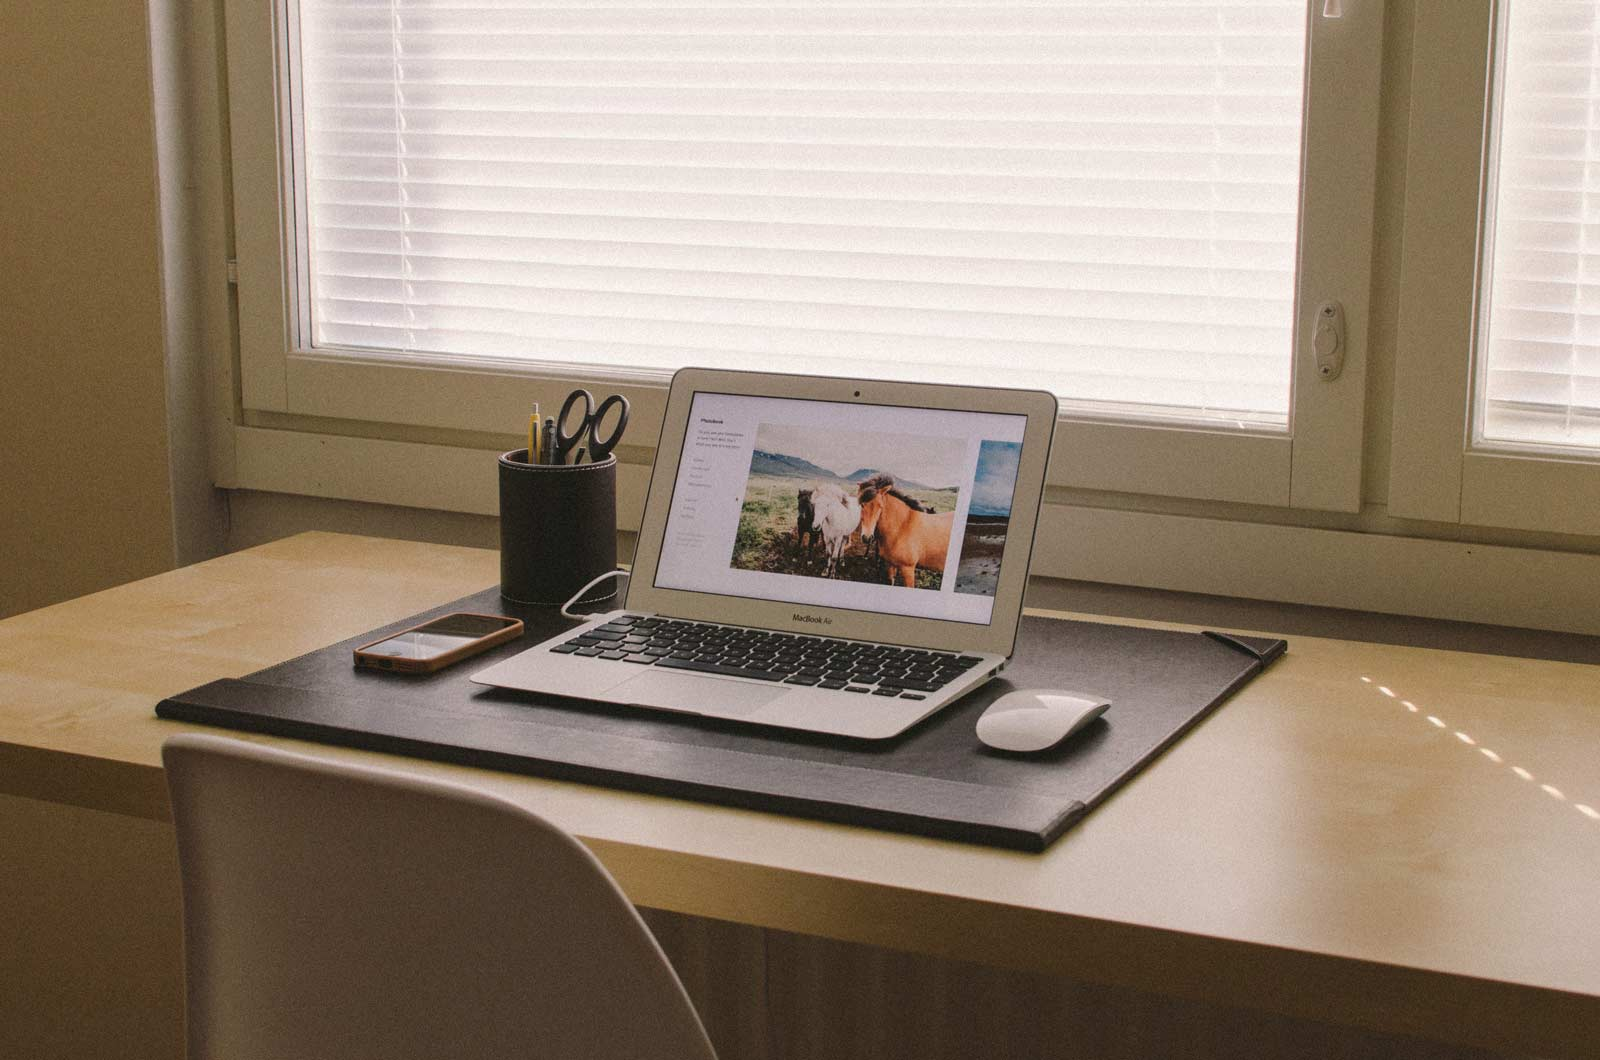
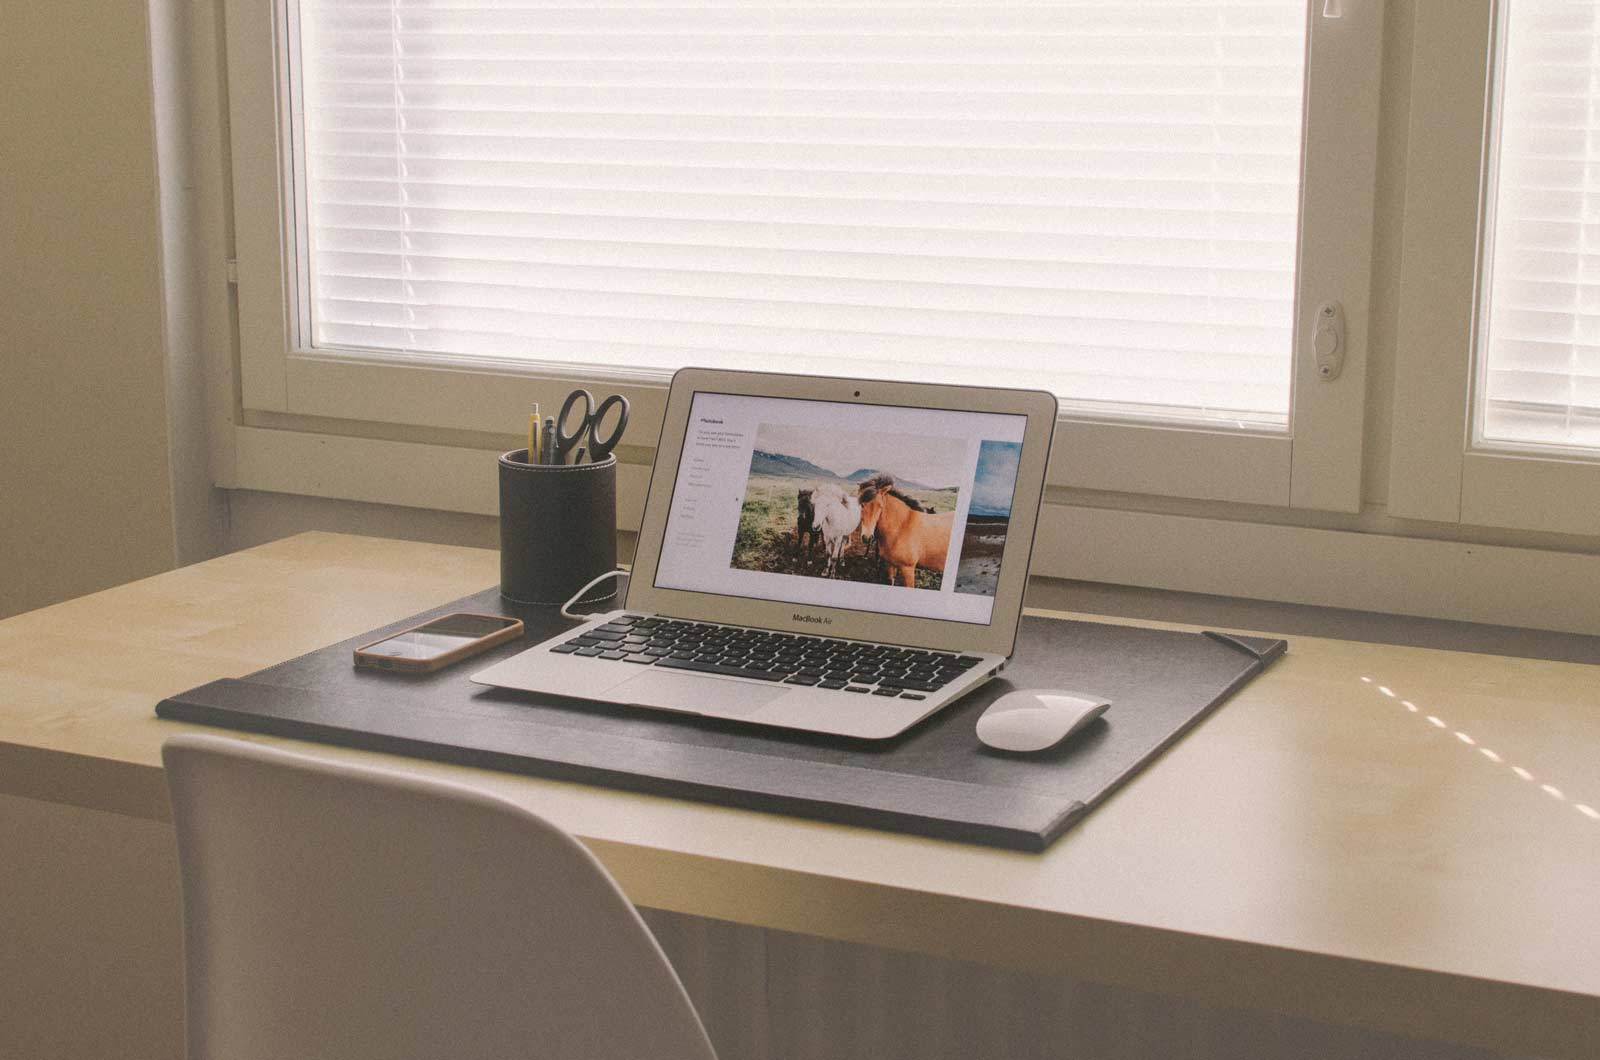
Top section updates.

diff --git a/index.html b/index.html
@@ -34,7 +34,37 @@
 
     <meta name="theme-color" content="#fefefe">
 
-    
+    <style>
+
+
+.section1 {
[1 lines of base64/hex data omitted]
+
[1 lines of base64/hex data omitted]
+min-height: 100vh;
+}
+
+.section1-enhanced {
+  background-image: url(img/bg-enhanced2.jpg);
+}
+
+@supports (background-image: filter(url('i.jpg'), blur(1px))) {
+  .post-header {
+    transform: translateZ(0);
+  }
+  .post-header-enhanced {
+    animation: sharpen .5s both;
+  }
+  @keyframes sharpen {
+    from {
+      background-image: filter(url(img/bg-enhanced2.jpg), blur(20px));
+    }
+    to {
+      background-image: filter(url(img/bg-enhanced2.jpg), blur(0px));
+    }
+  }
+}</style>
+
   </head>
   <body>
 
@@ -73,7 +103,7 @@
 
       <div class="section1 row">
       <div class="top-bar">
-          <img src="img/logo.png" style="max-height:2rem; max-width: 45%; width:auto;" alt="PSD 2 RWD beta logo">
+          <img src="img/logo.png" style="max-height:2rem; width:auto;" alt="PSD 2 RWD beta logo">
         <div class="top-bar-links" data-magellan>
           <a href="#pricing" class="pricing hide-for-small-only pricing-link">Pricing</a>
           <a href="#client-login" class="client-login">Client Login</a>

diff --git a/js/app.js b/js/app.js
@@ -1,1 +1,55 @@
 $(document).foundation();
+
+window.onload = function loadStuff() {
+  var win, doc, img, header, enhancedClass;
+  // Quit early if older browser (e.g. IE8).
+  if (!('addEventListener' in window)) {
+    return;
+  }
+
+  win = window;
+  doc = win.document;
+  img = new Image();
+  header = doc.querySelector('.section1');
+  enhancedClass = 'section1-enhanced';
+
+  // Rather convoluted, but parses out the first mention of a background
+  // image url for the enhanced header, even if the style is not applied.
+  var bigSrc = (function() {
+    // Find all of the CssRule objects inside the inline stylesheet 
+    var styles = doc.querySelector('style').sheet.cssRules;
+    // Fetch the background-image declaration...
+    var bgDecl = (function() {
+      // ...via a self-executing function, where a loop is run
+      var bgStyle, i, l = styles.length;
+      for (i = 0; i < l; i++) {
+        // ...checking if the rule is the one targeting the
+        // enhanced header.
+        if (styles[i].selectorText &&
+          styles[i].selectorText == '.' + enhancedClass) {
+          // If so, set bgDecl to the entire background-image
+          // value of that rule
+          bgStyle = styles[i].style.backgroundImage;
+          // ...and break the loop.
+          break;
+        }
+      }
+      // ...and return that text.
+      return bgStyle;
+    }());
+    // Finally, return a match for the URL inside the background-image
+    // by using a fancy regex i Googled up, if the bgDecl variable is
+    // assigned at all.         
+    return bgDecl && bgDecl.match(/(?:\(['|"]?)(.*?)(?:['|"]?\))/)[1];
+  }());
+
+  // Assign an onLoad handler to the dummy image *before* assigning the src
+  img.onload = function() {
+    header.className += ' ' + enhancedClass;
+  };
+  // Finally, trigger the whole preloading chain by giving the dummy
+  // image its source.
+  if (bigSrc) {
+    img.src = bigSrc;
+  }
+};

diff --git a/css/app.css b/css/app.css
@@ -10,6 +10,14 @@
   src: url('brelarefular.otf');
 }
 
+
+html,body {
+    margin:0;
+    padding:0;
+    height:100%; /* needed for container min-height */
+  }
+
+
 body {
   /*font-family: 'Lora', serif;*/
 }
@@ -32,12 +40,12 @@ img {
 
   /* Location of the image */
  /*  background-image: url(../img/green-gradient.png), url(../img/bg.jpg); */
-background-image: url(../img/bg-enhanced.jpg);
+background-image: url(../img/bg-enhanced2.jpg);
 
 
  /* Background image is centered vertically and horizontally at all times */
 /*  background-position: center bottom, center center;*/
-  background-position: right top;
+  background-position: center center;
 
   /*Background image doesn't tile */
 /*  background-repeat: repeat-x, no-repeat;*/
@@ -57,7 +65,7 @@ background-image: url(../img/bg-enhanced.jpg);
 
   /*position: absolute; top: 0; bottom: 0; left: 0; right: 0;*/
 
-  height: 100vh;
+  min-height: 100vh;
 
   width: 100%;
   max-width: 100%;
@@ -148,8 +156,10 @@ h1, h2, h3, h4, h5, h6 {
 }
 
 .device {
-  margin-top: 6rem;
+ margin-top: 3rem;
   margin-right: 4%;
+  position: relative;
+  top: .62rem;
 }
 
 
@@ -244,6 +254,12 @@ h1, h2, h3, h4, h5, h6 {
 .intro-button {
   margin-left: 0.62rem !important;
   margin-right: 0.62rem !important;
+}
+
+.device {
+  position: relative;
+  top: 1rem;
+  margin-top: 4rem;
 }
 }
 
